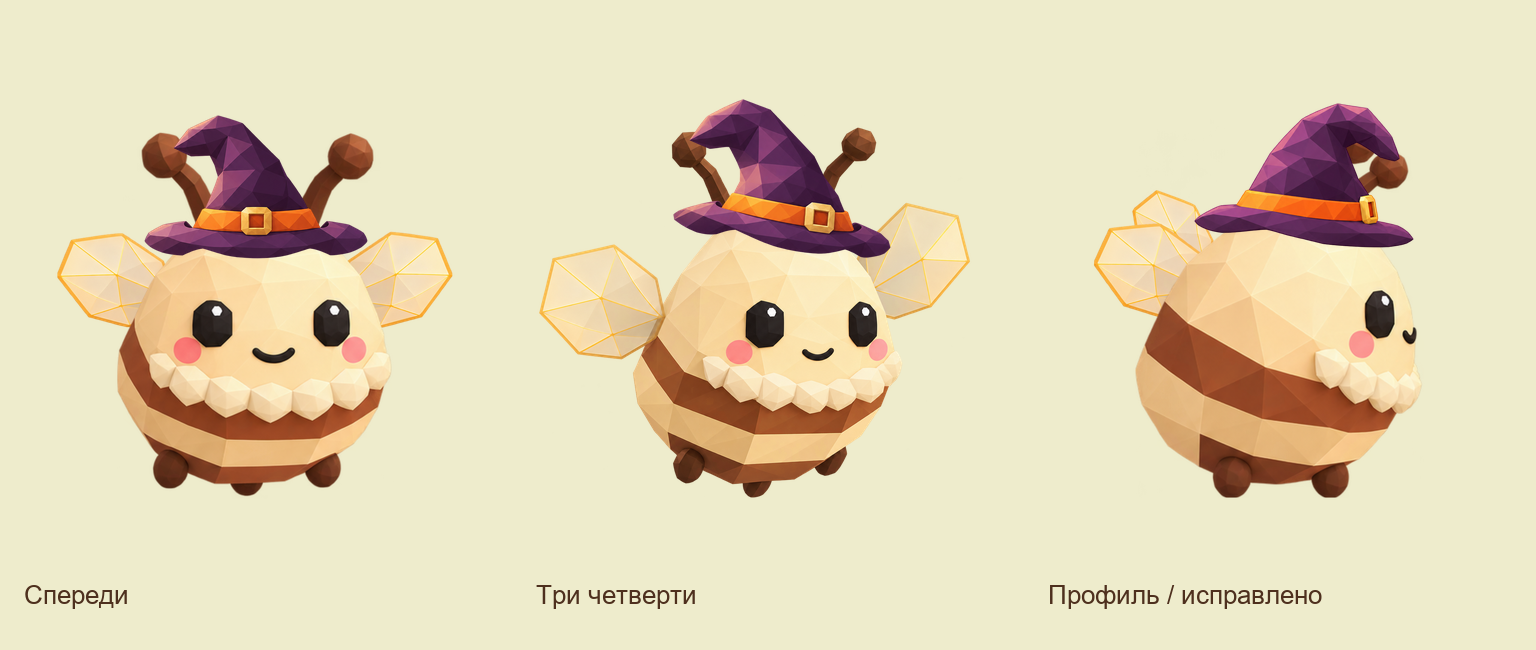
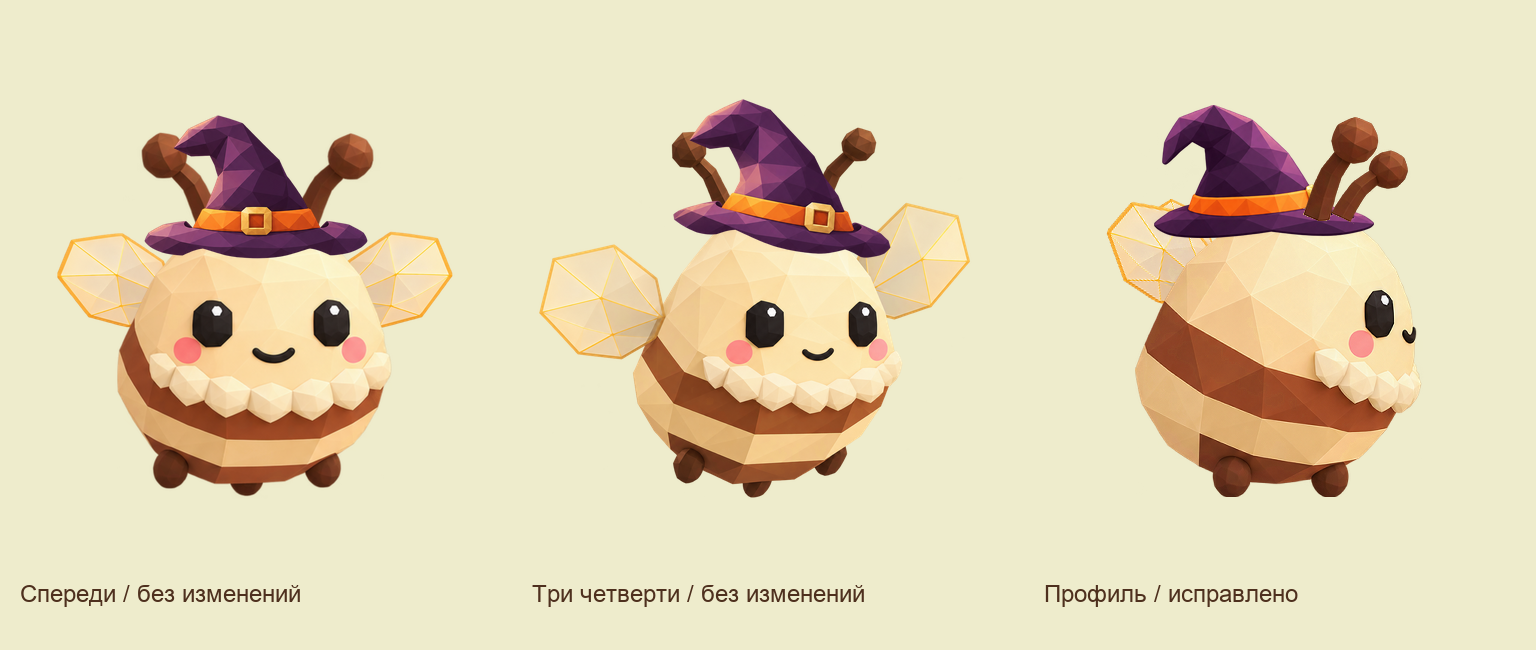
art: fix profile antenna layering and wing pose

diff --git a/design/2d/halloween/README.ru.md b/design/2d/halloween/README.ru.md
@@ -97,3 +97,14 @@
 По замечанию владельца исправлен только профиль: центр посадки x340 → x280, нижний край полей y211 → y198, ширина 200 → 220 px. Шляпа уточнена встроенным image_gen, затем выполнена пропорциональная механическая посадка. Усики частично перекрыты колпаком в профиль; проверка анимации остаётся при подключении.
 
 [review/witchhat-side-fix-v2.png](review/witchhat-side-fix-v2.png) — до/после. Общий лист `witchhat-fit-v1.png` обновлён. Актуальный запрос профиля и параметры экспорта: [prompts-witchhat-side-fix-v2.json](prompts-witchhat-side-fix-v2.json); промпт v1 сохранён как история. Контрольные суммы в `image-checks-witchhat-v1.json` актуализированы. Front и q3-front побайтово сохранены. Исправление на просмотре.
+
+
+### Профиль v3 — усики и спокойная поза крыльев
+
+Актуальная примерка: [review/witchhat-profile-check-v3.png](review/witchhat-profile-check-v3.png). Проверены исходные `bee-turnarounds/assets/pushinka/side.png`, `wing-left.png`, `wing-right.png`, профиль Жужи `design/3d/turnaround/side.png` и текущие `assets/art/turn/pushinka/{base,w0,w1}_side_288.webp`. Сами старые контуры крыльев совпадают с прежней сборкой; замечание относится к их раскрытию/перспективе в спокойной примерке. Вариант v3 уменьшает дальнее крыло до 82% и меняет наклоны обоих вокруг креплений. Это **предлагаемая новая поза на просмотре**, не изменение принятого runtime.
+
+Колпак перерисован встроенным image_gen с отогнутым назад кончиком и отверстиями справа. Усики взяты из исходного корпуса, без изменения рисунка; вынесены перед шляпой, чтобы стержни не обрывались и шарики не застревали под кончиком. Цветовая alpha-маска извлекает оригинальные пиксели усиков, не генерирует новые. Корпус, лапки, лицо и источники крыльев не перерисованы. Параметры посадки, поворота и промпт: [prompts-profile-fit-v3.json](prompts-profile-fit-v3.json).
+
+**Порядок сборки обязателен:** дальнее крыло → ближнее крыло → тело → шляпа → передний слой усиков. Холсты 512 × 512, слои не обрезать по отдельности. Готовые поддерживающие слои и `assembly.json` находятся в `costumes/fitting/pushinka/`. Эти четыре файла — технические слои примерки, не дополнительные костюмы из перечня 46 файлов. Хеши: `image-checks-profile-fit-v3.json`. Если наложить только шляпу поверх цельной пчелы, корректное перекрытие усиков не гарантируется.
+
+Front и q3-front не изменены; общее число обязательных ассетов по-прежнему 24/46. Игровые файлы не изменены. Для других видов и анимации нужны проверка этой сборки на реальном размере и перенос исходных усиков каждого вида. v1 и v2 описаны выше как история, актуален v3.
